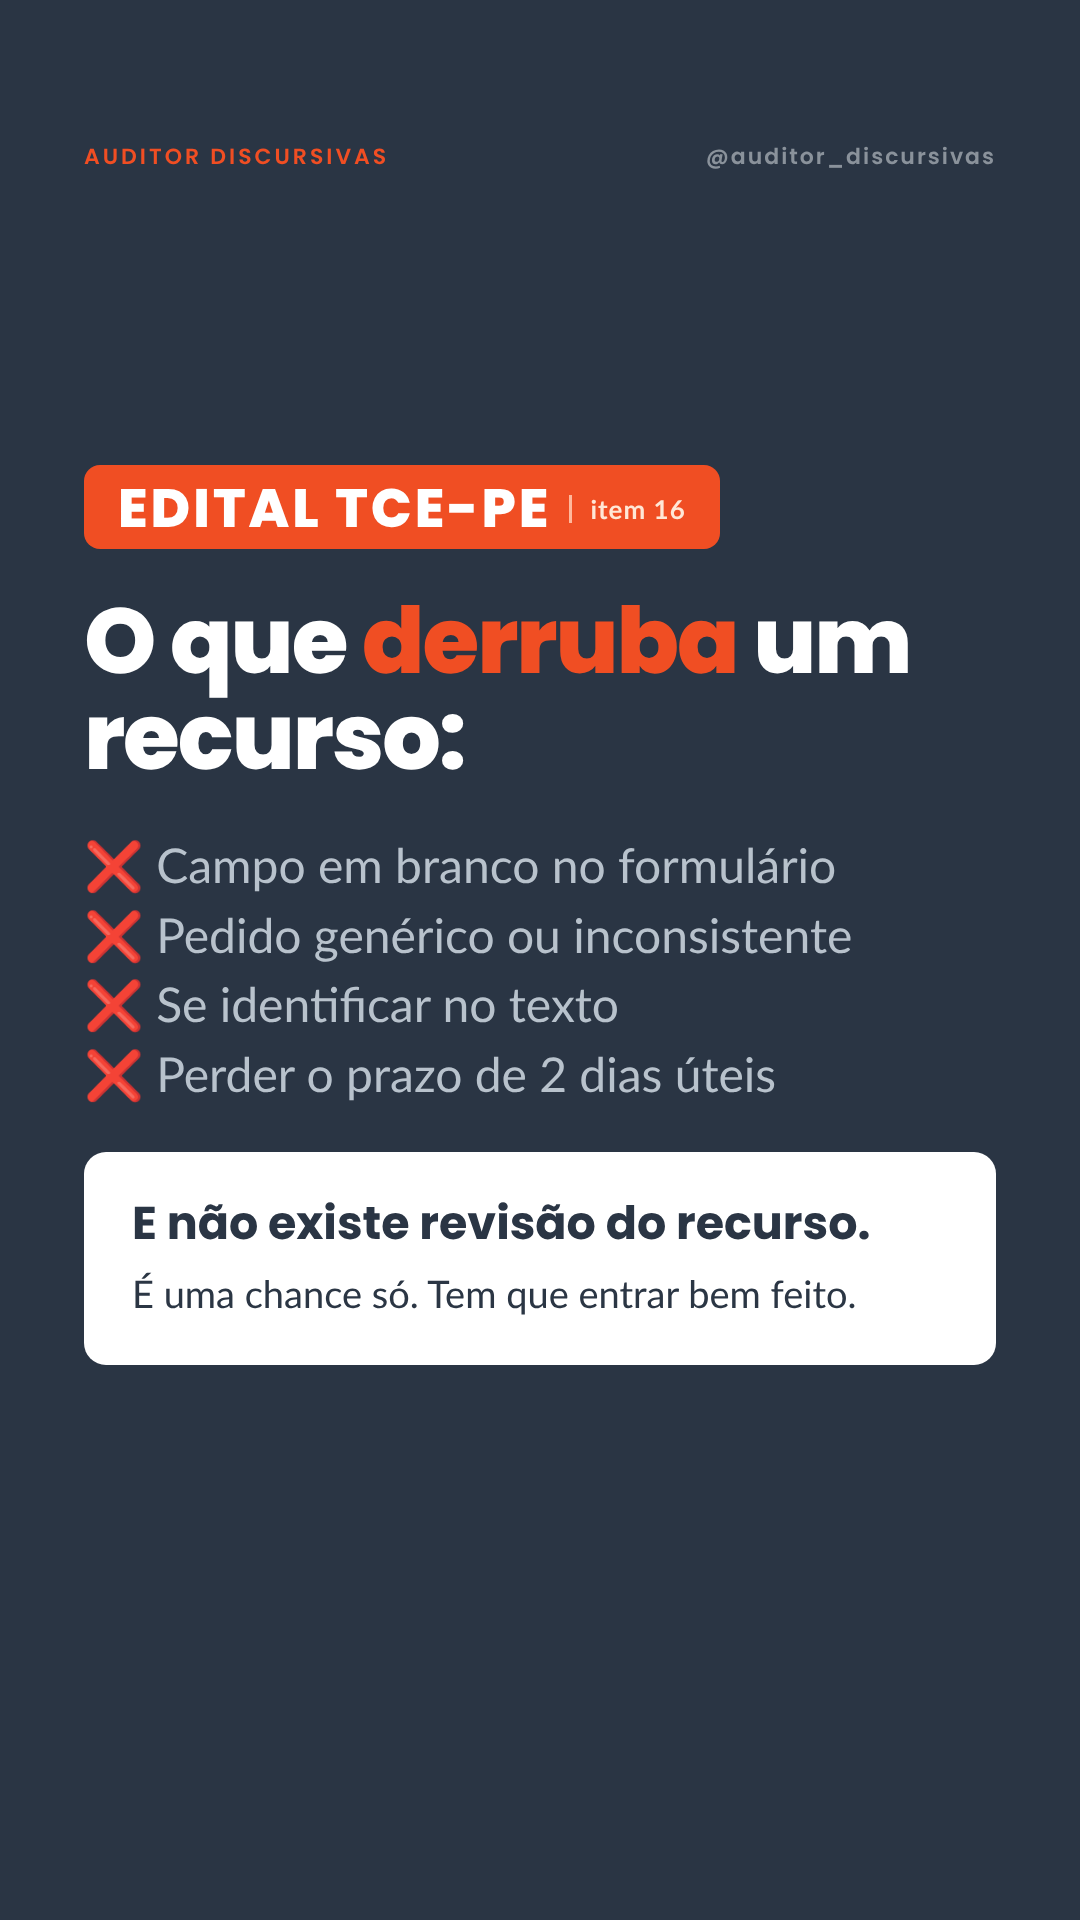
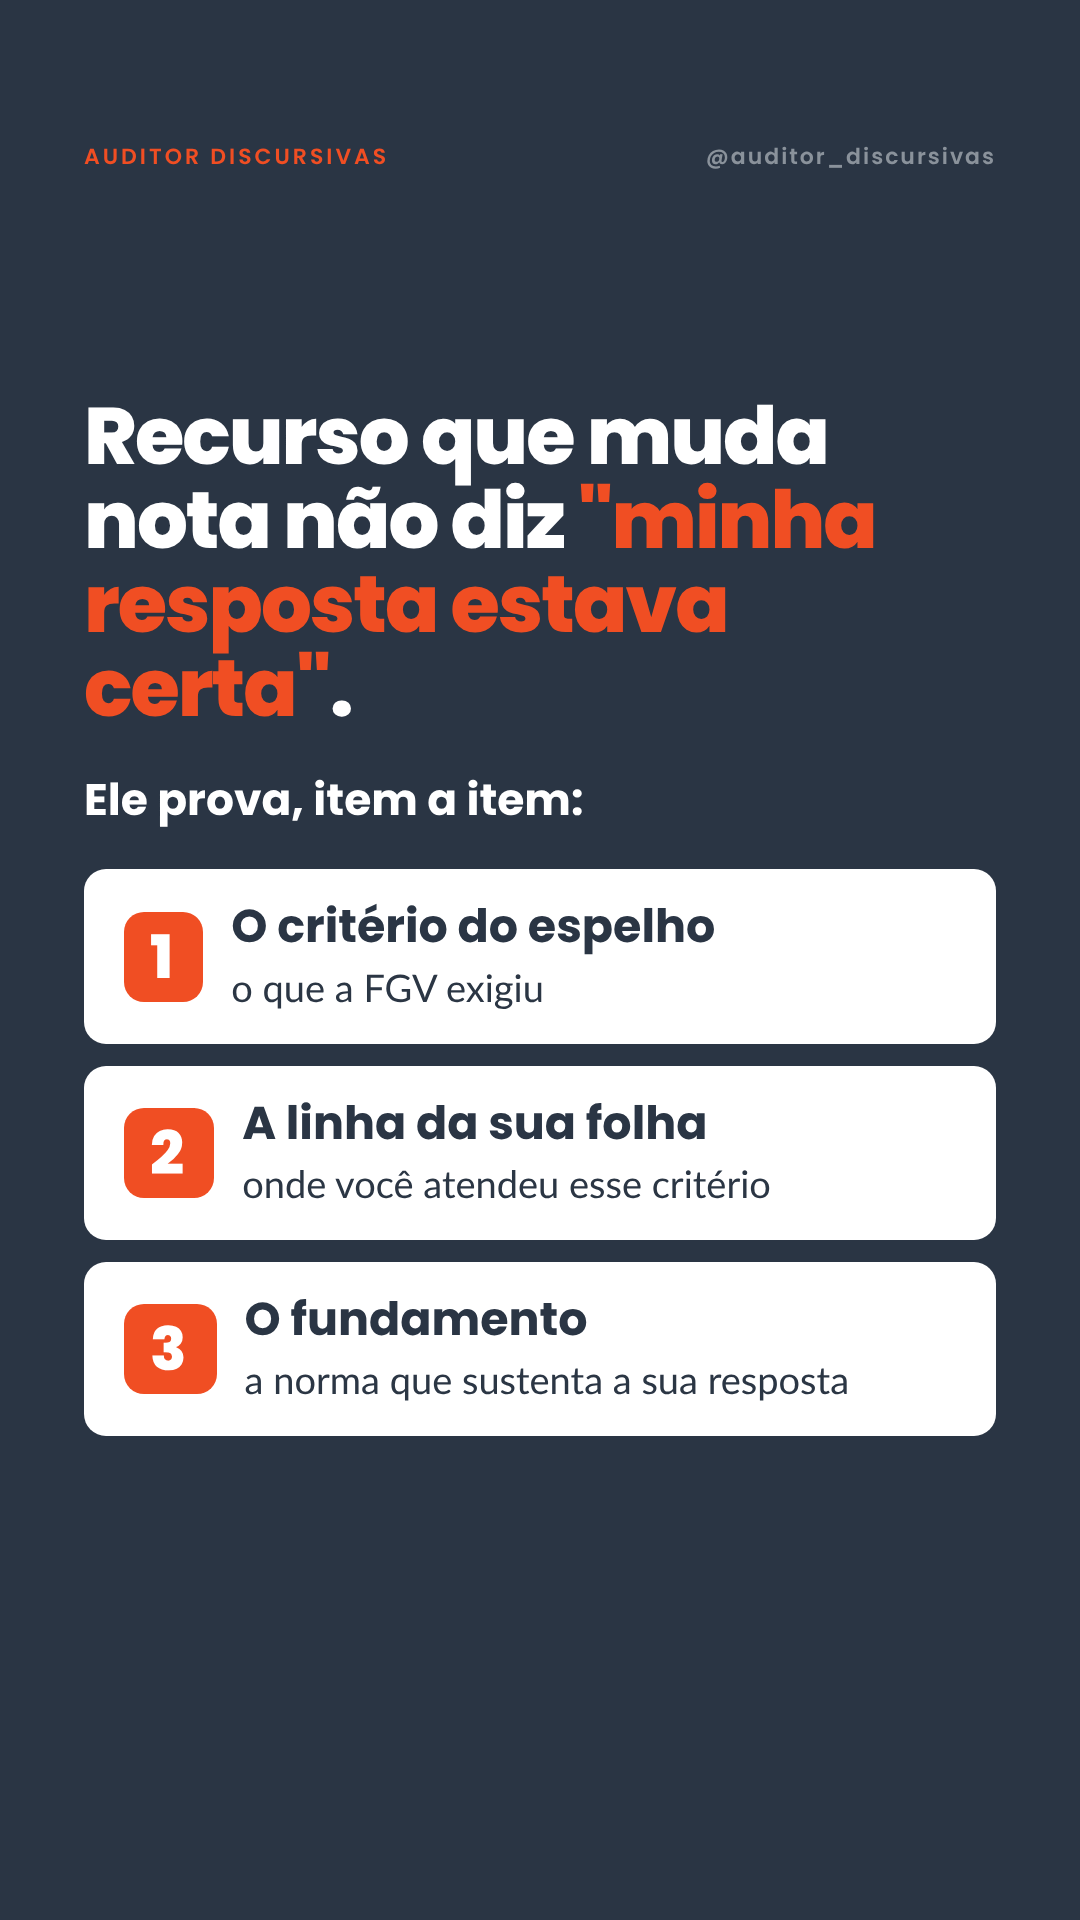
TCE-PE v2: story 2 refeito
Claude-Session: https://claude.ai/code/session_01AnLNE3fqiPh8bQrroJfCkS

Changed region(s): [[0.0611, 0.1875, 0.9472, 0.75]]

diff --git a/fontes/campanha-recurso-tcepe/stories_tcepe_v2.html b/fontes/campanha-recurso-tcepe/stories_tcepe_v2.html
@@ -196,10 +196,13 @@ body{background:#E8EBEE;font-family:'Lato',sans-serif;padding:40px;display:flex;
 <div class="st-h">Recurso da discursiva: <em>2 dias úteis.</em></div>
 <div class="st-box"><div class="q">📅 12/11 · sai a nota</div><div class="r">📅 <b>13 a 16/11</b> · recurso<br>📅 08/12 · resultado final</div></div></div></div>
 <div class="story" data-n="n2"><div class="st-marca"><div class="marca">Auditor Discursivas</div><div class="contador">@auditor_discursivas</div></div>
-<div class="st-in"><span class="tag" style="align-self:flex-start">Edital TCE-PE<small>item 16</small></span>
-<div class="st-h">O que <em>derruba</em> um recurso:</div>
-<div class="st-p">❌ Campo em branco no formulário<br>❌ Pedido genérico ou inconsistente<br>❌ Se identificar no texto<br>❌ Perder o prazo de 2 dias úteis</div>
-<div class="st-box"><div class="q">E não existe revisão do recurso.</div><div class="r">É uma chance só. Tem que entrar bem feito.</div></div></div></div>
+<div class="st-in" style="gap:38px"><div class="st-h" style="font-size:80px">Recurso que muda nota não diz <em>"minha resposta estava certa"</em>.</div>
+<div class="st-p" style="color:#fff;font-family:'Poppins';font-weight:700;font-size:44px">Ele prova, item a item:</div>
+<div style="display:flex;flex-direction:column;gap:22px">
+<div class="st-box" style="padding:30px 40px;display:flex;gap:28px;align-items:center"><span class="kw" style="font-size:60px;padding:0 26px">1</span><div><div class="q">O critério do espelho</div><div class="r" style="margin-top:6px">o que a FGV exigiu</div></div></div>
+<div class="st-box" style="padding:30px 40px;display:flex;gap:28px;align-items:center"><span class="kw" style="font-size:60px;padding:0 26px">2</span><div><div class="q">A linha da sua folha</div><div class="r" style="margin-top:6px">onde você atendeu esse critério</div></div></div>
+<div class="st-box" style="padding:30px 40px;display:flex;gap:28px;align-items:center"><span class="kw" style="font-size:60px;padding:0 26px">3</span><div><div class="q">O fundamento</div><div class="r" style="margin-top:6px">a norma que sustenta a sua resposta</div></div></div>
+</div></div></div>
 <div class="story" data-n="n3"><div class="st-marca"><div class="marca">Auditor Discursivas</div><div class="contador">@auditor_discursivas</div></div>
 <div class="st-in"><div class="st-h">A nota sai em <em>12/11</em>.<br>Não concordou?</div>
 <div><span class="kw">RECURSO</span></div>
